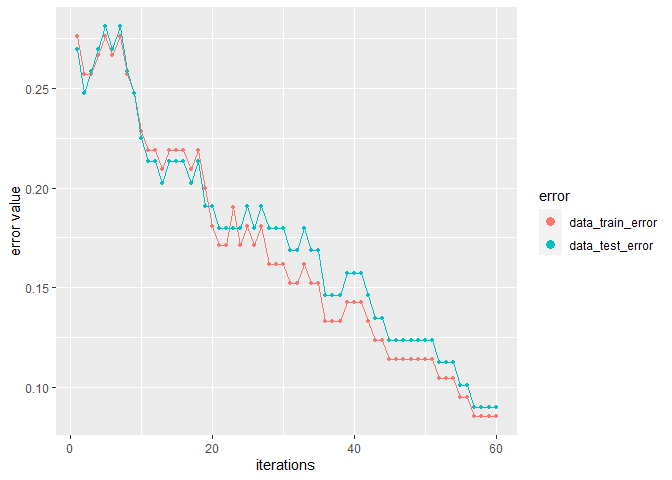
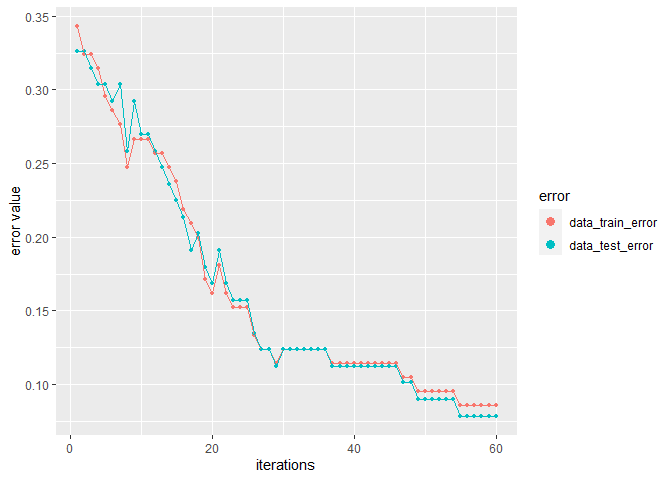
version 0.1.3

diff --git a/README.md b/README.md
@@ -1,3 +1,8 @@
+---
+output:
+  word_document: default
+  html_document: default
+---
 
 # PriceIndices – a Package for Bilateral and Multilateral Price Index Calculations
 
@@ -106,12 +111,12 @@ dataset<-generate(pmi=c(1.02,1.03,1.04),psigma=c(0.05,0.09,0.02),
                   start="2020-01")
 head(dataset)
 #>         time prices quantities prodID retID
-#> 1 2020-01-01   2.54         21      1     1
-#> 2 2020-01-01   2.82         20      2     1
-#> 3 2020-01-01   2.74         21      3     1
-#> 4 2020-01-01   2.61         23      4     1
-#> 5 2020-01-01   2.98         21      5     1
-#> 6 2020-01-01   2.80         20      6     1
+#> 1 2020-01-01   2.80         23      1     1
+#> 2 2020-01-01   2.62         23      2     1
+#> 3 2020-01-01   2.75         23      3     1
+#> 4 2020-01-01   2.76         22      4     1
+#> 5 2020-01-01   2.86         18      5     1
+#> 6 2020-01-01   3.04         23      6     1
 ```
 
 From the other hand you can use **tindex** function to obtain the theoretical value of the unweighted price index for lognormally distributed prices (the month defined by **start** parameter plays a role of the fixed base period). The characteristics for these lognormal distributions are set by **pmi** and **sigma** parameters. The **ratio** parameter is a logical parameter indicating how we define the theoretical unweighted price index. If it is set to TRUE then the resulting value is a ratio of expected price values from compared months; otherwise the resulting value is the expected value of the ratio of prices from compared months.The function provides a data frame consisting of dates and corresponding expected values of the theoretical unweighted price index. For example:
@@ -132,12 +137,12 @@ df<-generate_CES(pmi=c(1.02,1.03),psigma=c(0.04,0.03),
 elasticity=1.25,start="2020-01",n=100,days=TRUE)
 head(df)
 #>         time prices quantities prodID retID
-#> 1 2020-01-10   2.83  6.7462310      1     1
-#> 2 2020-01-25   2.53  6.2493097      2     1
-#> 3 2020-01-02   2.69  6.4351220      3     1
-#> 4 2020-01-09   2.95  0.6526529      4     1
-#> 5 2020-01-28   2.66  3.0525990      5     1
-#> 6 2020-01-22   2.92  1.3833192      6     1
+#> 1 2020-01-22   2.83   4.236289      1     1
+#> 2 2020-01-09   2.88   3.859330      2     1
+#> 3 2020-01-16   2.81   1.618691      3     1
+#> 4 2020-01-12   2.90   5.396912      4     1
+#> 5 2020-01-17   2.74   1.976293      5     1
+#> 6 2020-01-27   2.65   1.369175      6     1
 ```
 
 Now, we can verify the value of elasticity of substitution using this generated dataset:
@@ -790,19 +795,19 @@ values<-stats::runif(length(prodID),1,2)
 v<-data.frame(prodID,values)
 head(v)
 #>   prodID   values
-#> 1  14215 1.116944
-#> 2  14216 1.574951
-#> 3  15404 1.358906
-#> 4  17034 1.253776
-#> 5  34540 1.382378
-#> 6  51583 1.493010
+#> 1  14215 1.775934
+#> 2  14216 1.445651
+#> 3  15404 1.551369
+#> 4  17034 1.245110
+#> 5  34540 1.525972
+#> 6  51583 1.690244
 ```
 
 and the next step is calculating the QU index which compares December 2019 to December 2018:
 
 ``` r
 QU(milk, start="2018-12", end="2019-12", v)
-#> [1] 1.042086
+#> [1] 0.9796895
 ```
 
 <a id="ad8"> </a>

diff --git a/NEWS.md b/NEWS.md
@@ -1,3 +1,12 @@
+# Package update 0.1.2 -> 0.1.3
+
+## Bug fixes
+
+* Graphical result of the **compare_indices_list** function has been corrected 
+(a label concerning the X-axis is now named 'date')
+* References have been updated in the case of the *generate* function.
+* A wrong example concerning the *geksgaqi_splice* function has been deleted.
+
 # Package update 0.1.1 -> 0.1.2
 
 ## New functions:
